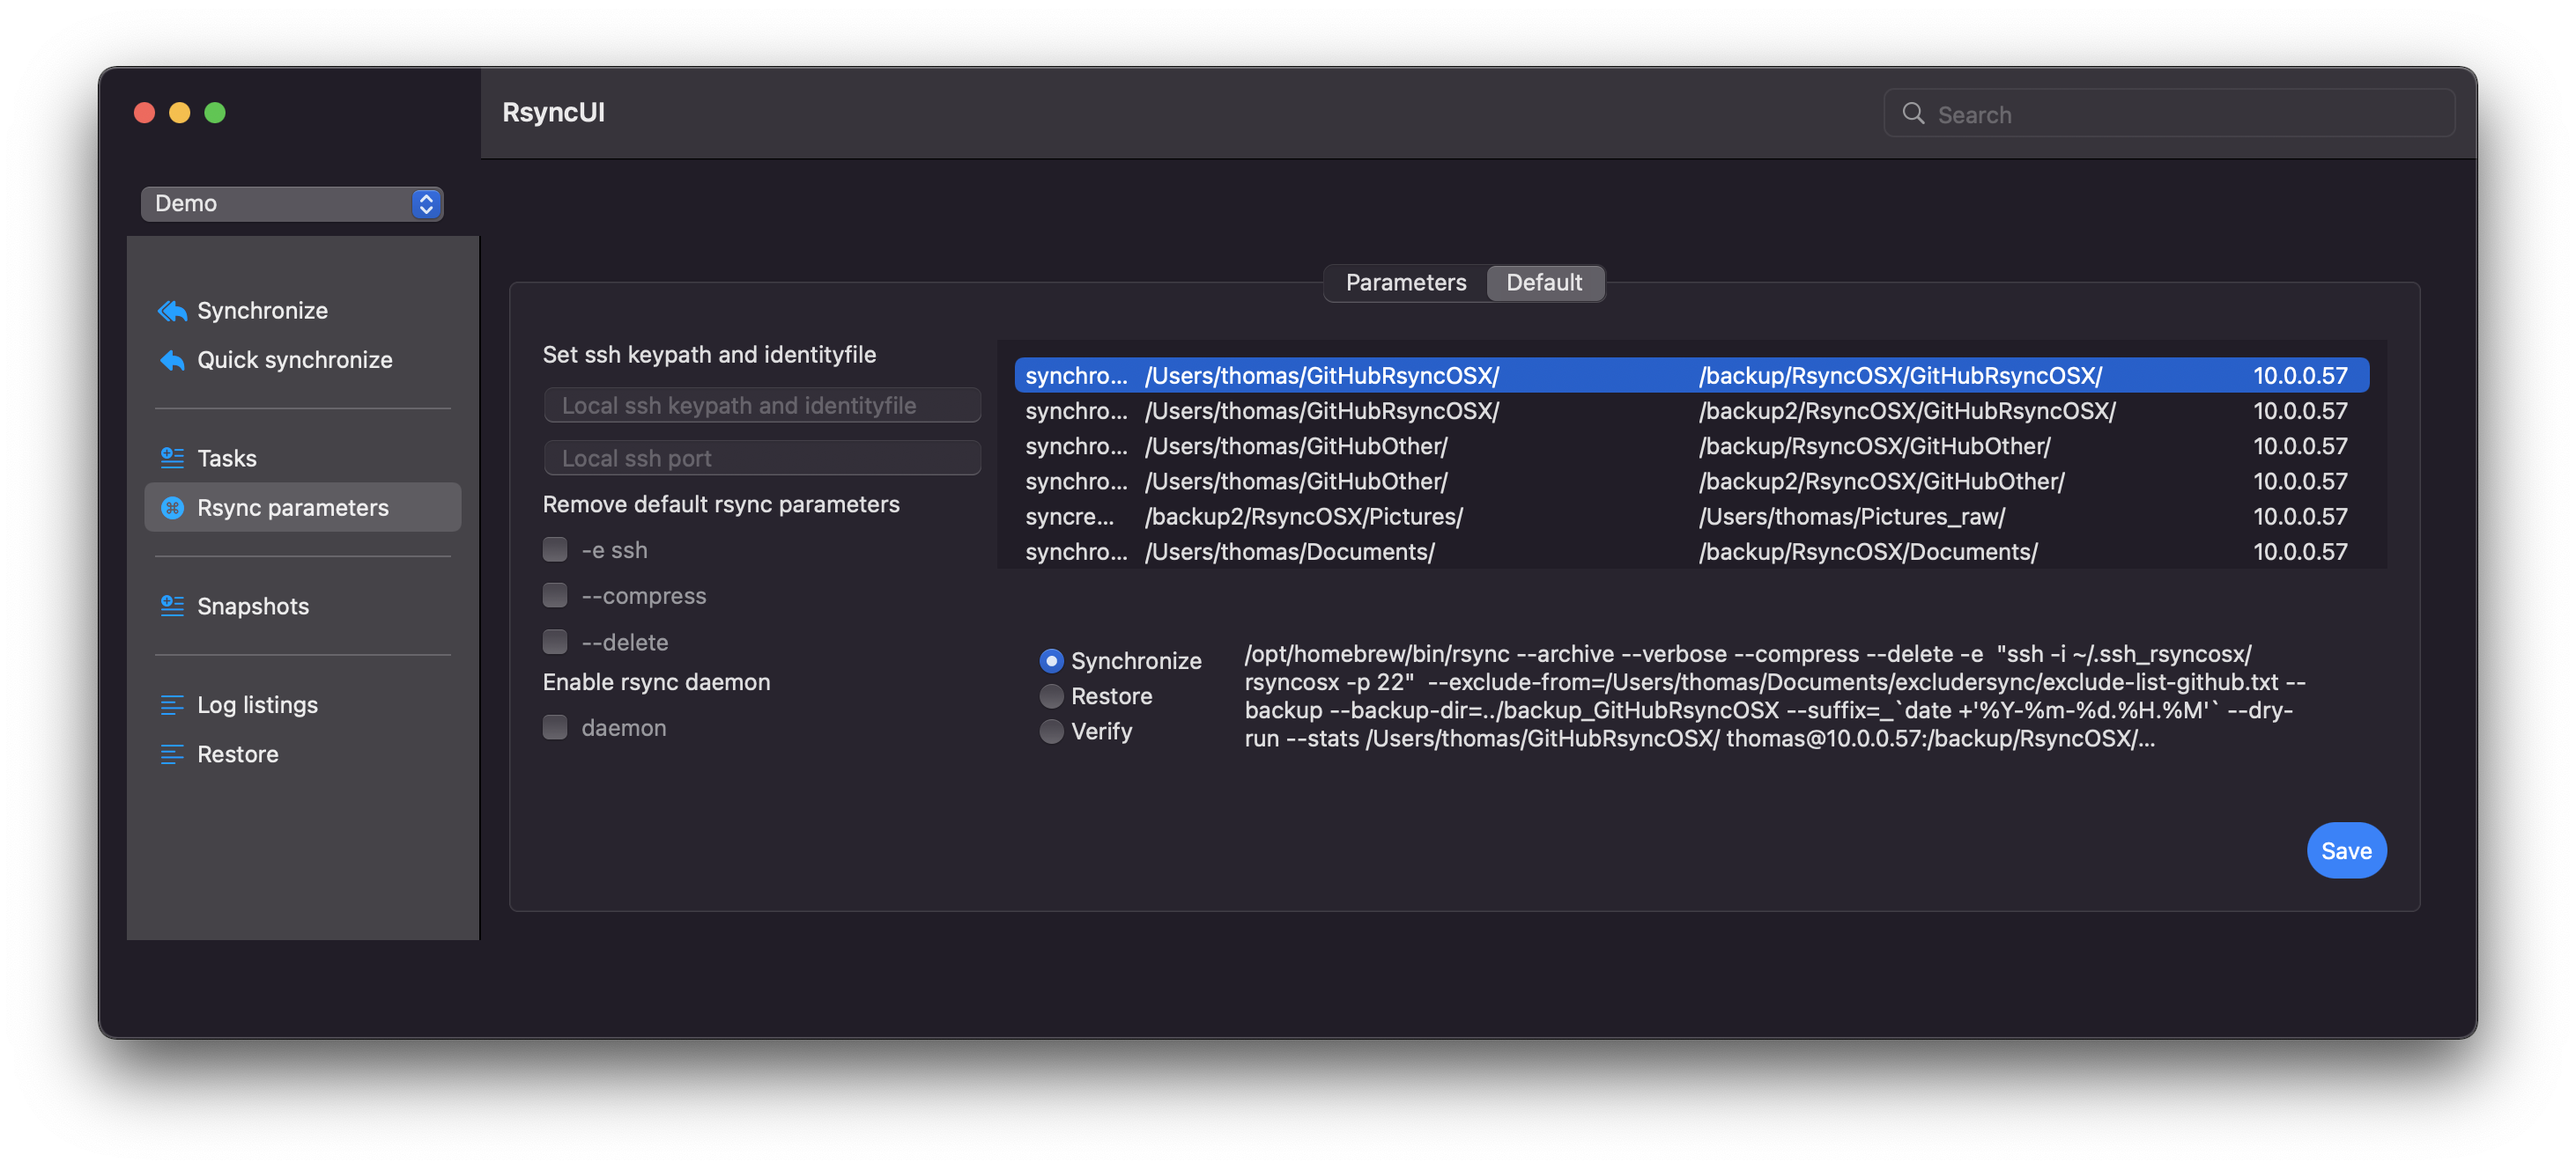
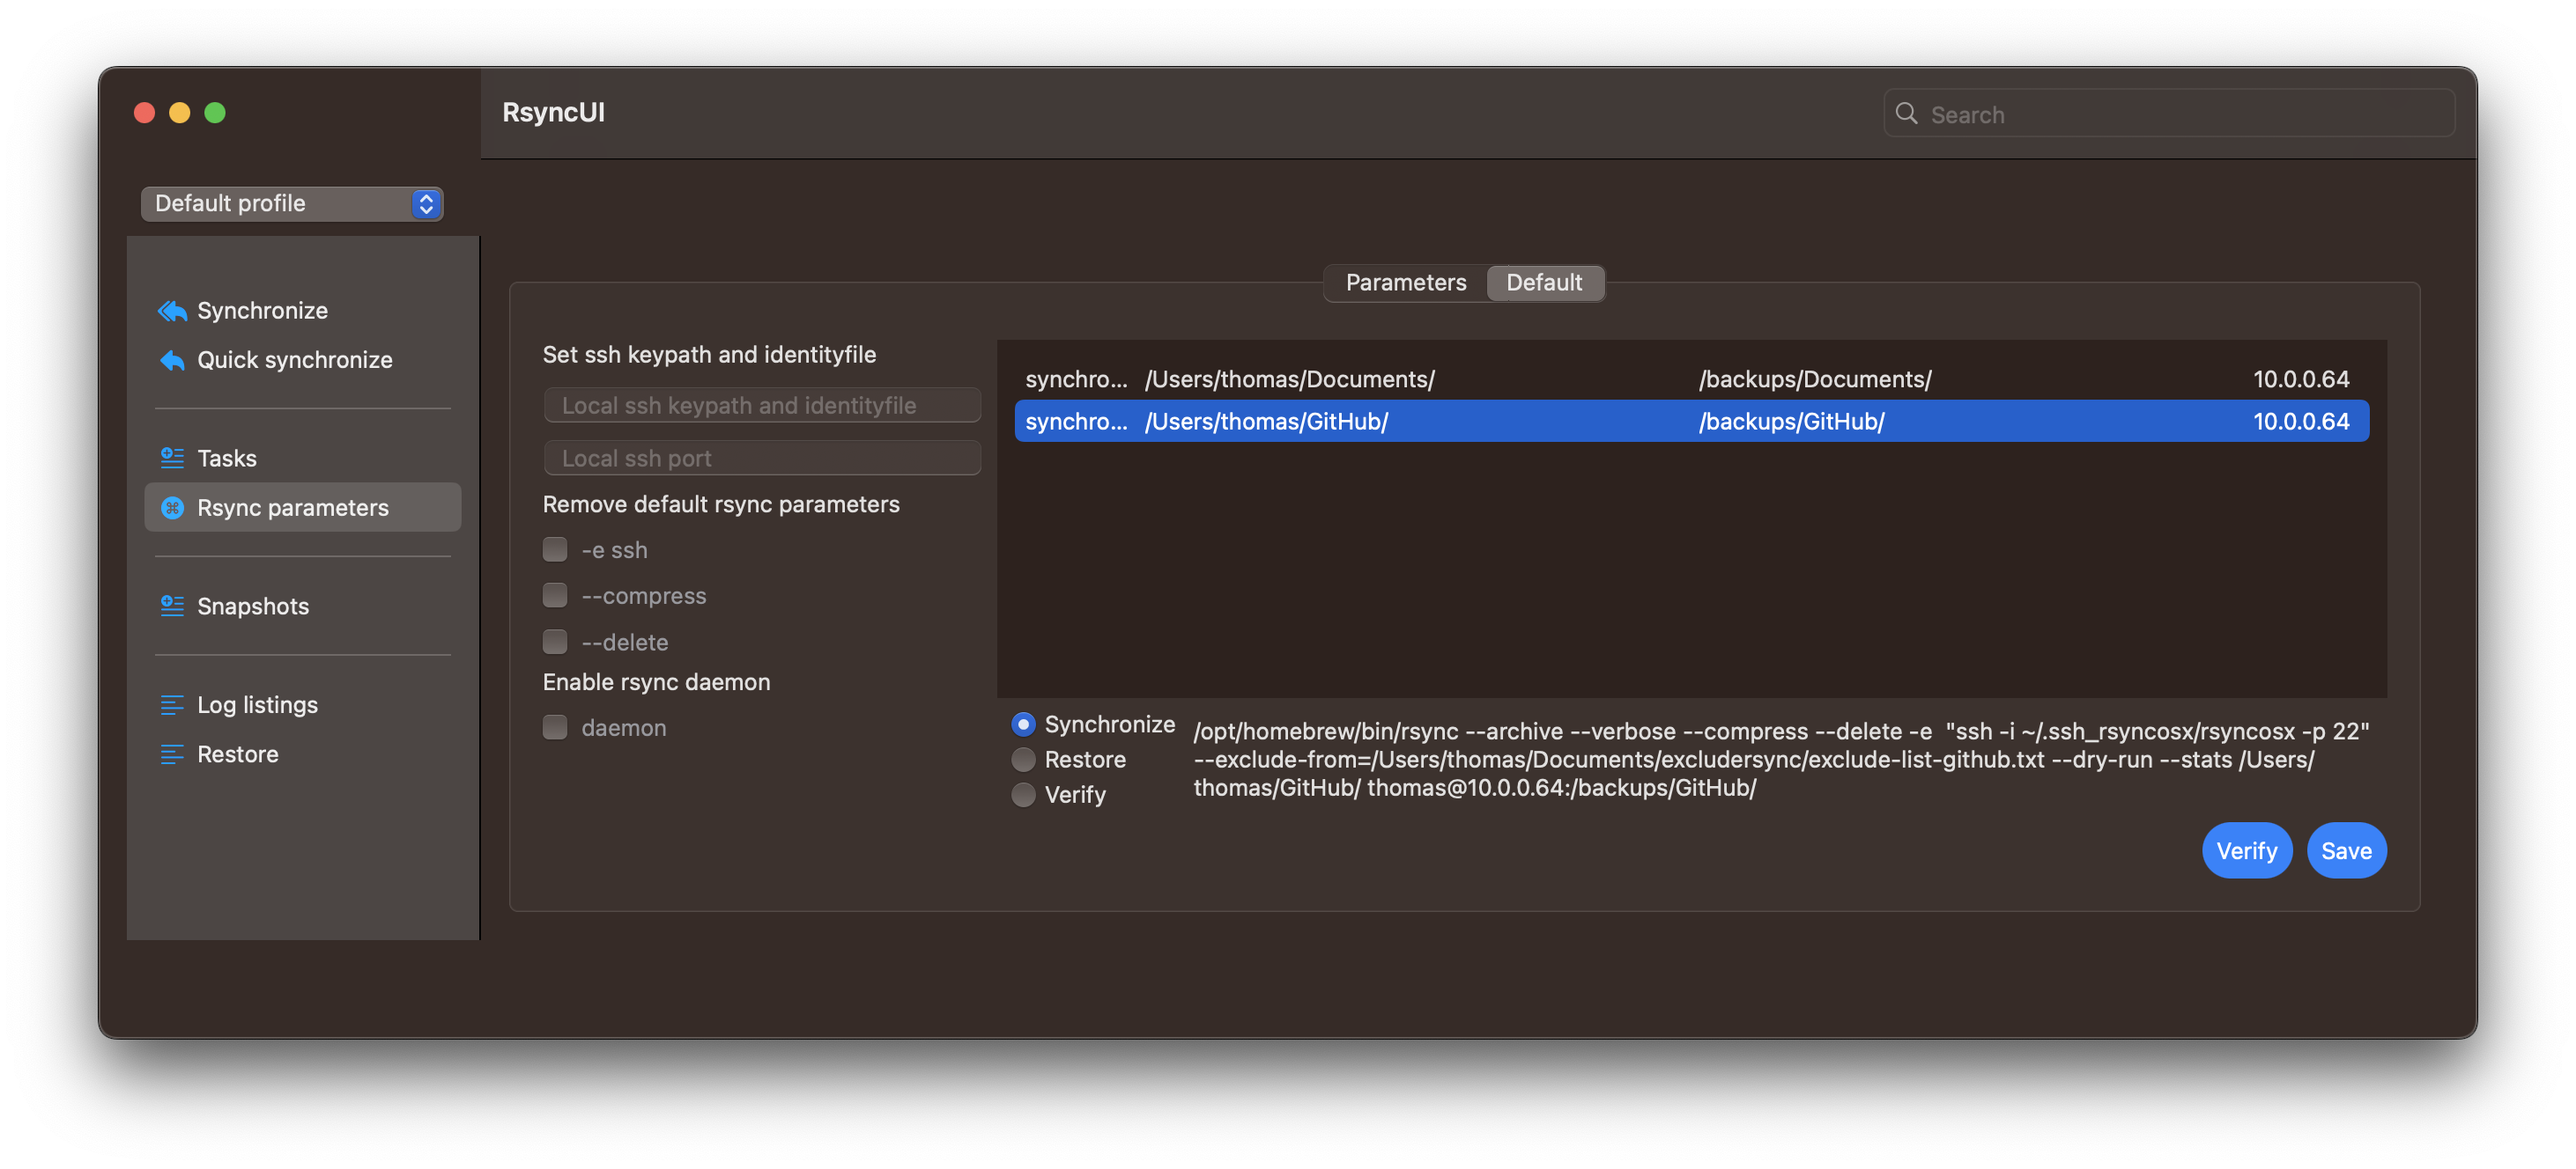
update

diff --git a/content/post/RsyncParameters.md b/content/post/RsyncParameters.md
@@ -6,7 +6,9 @@ tags = ["parameters to rsync"]
 categories = ["rsync parameters"]
 lastmod = "2021-03-25"
 +++
-RsyncUI implements default parameters which are working fine for simple synchronize and restore tasks. The actual parameters used in tasks are depended upon executing rsync over **network connection** or not. Which standard parameters to use is computed during startup of application by reading the configuration file. The user can also remove default parameters if required.
+RsyncUI implements default parameters which are working fine for simple synchronize and restore tasks. The actual parameters used in tasks are depended upon executing rsync over **network connection** or not. Which standard parameters to use is computed during startup of application by reading the configuration file. The user can also remove default parameters if required. Parameters to rsync is saved by task.  The ssh parameter might be set global to all tasks. The global ssh parameters might by overridden by ssh parameter by task.
+
+The resulting commandline string is dynamically updated. By the `Verify` button new parameters might be tested before saving. The verify executes a `--dry-run` task for verification of parameters. The above applies to both default and user set parameters.
 
 ## Default rsync parameters
 

diff --git a/content/post/RsyncUIdocs.md b/content/post/RsyncUIdocs.md
@@ -57,6 +57,10 @@ It is easy to [add and update configurations](/post/addconfigurations/).
 
 The user can [tweak some settings in RsyncUI](/post/settings/)
 
+## Parameters to rsync
+
+Rsync has a ton of parameters. In [rsync parameters](/post/rsyncparameters/) you can add your own additional parameters to rsync. There is also a set of default rsync parameters. Default parameters might be deleted if wanted. Default parameters are added to all new tasks.
+
 ## Pre and post shell scripts
 
 RsyncUI might execute a [pre and post shell script](/post/shellout/) connected to a task.
@@ -64,10 +68,6 @@ RsyncUI might execute a [pre and post shell script](/post/shellout/) connected t
 ## Restore data
 
 Sometimes you might want to [restore some data](/post/restore/).
-
-## Parameters to rsync
-
-Rsync has a ton of parameters. In [rsync parameters](/post/rsyncparameters/) you can add your own additional parameters to rsync. There is also a set of default rsync parameters.
 
 ## Snapshots
 
